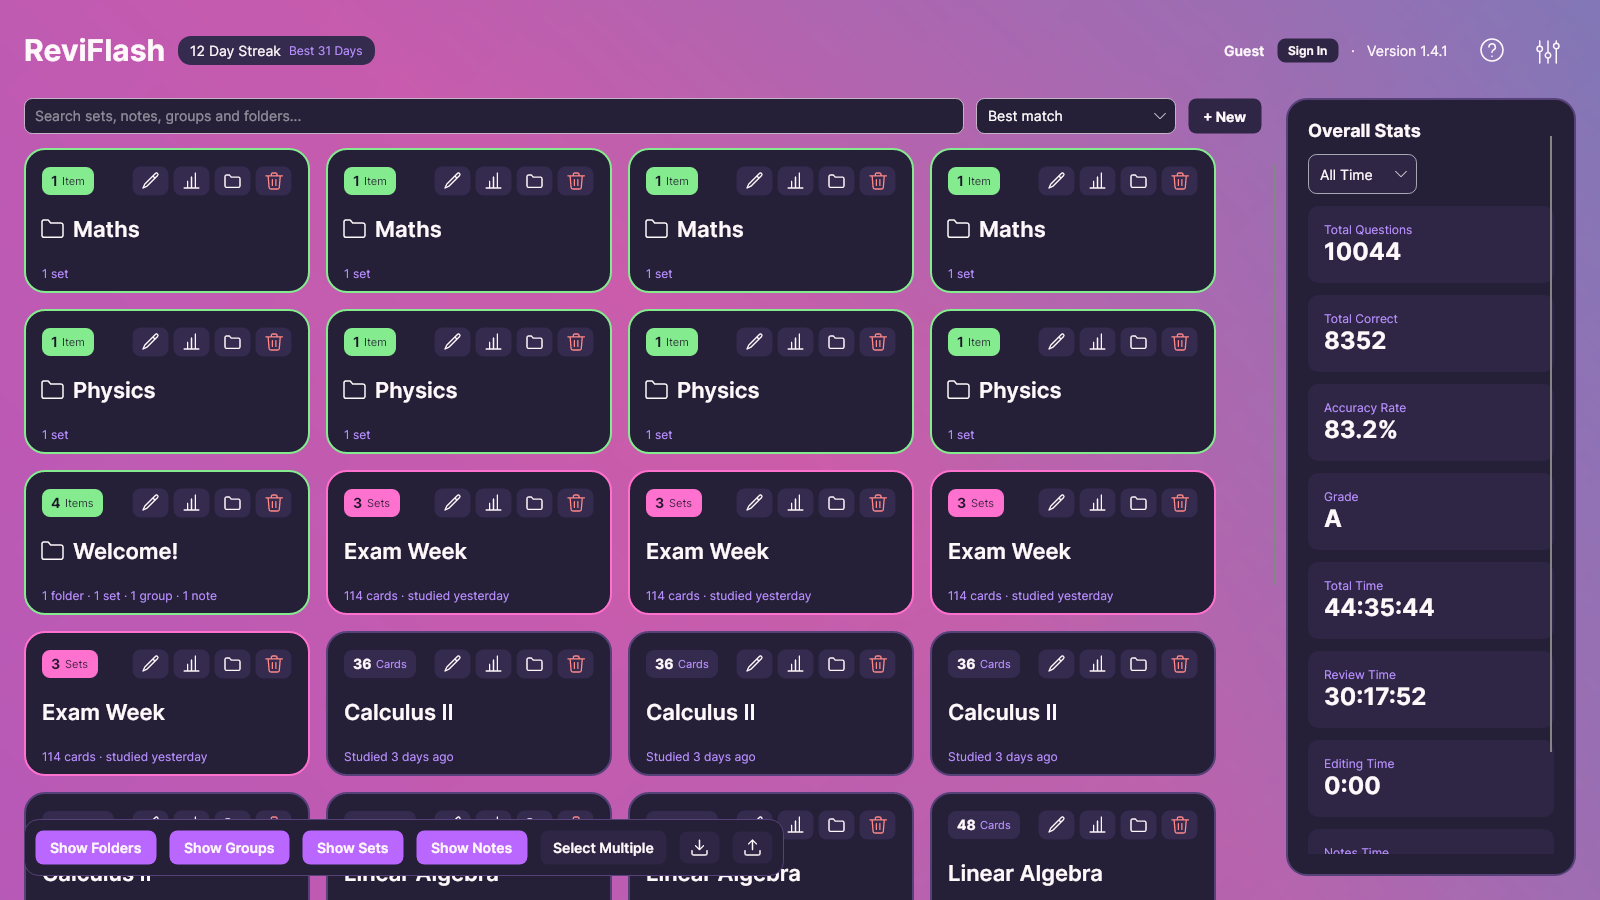
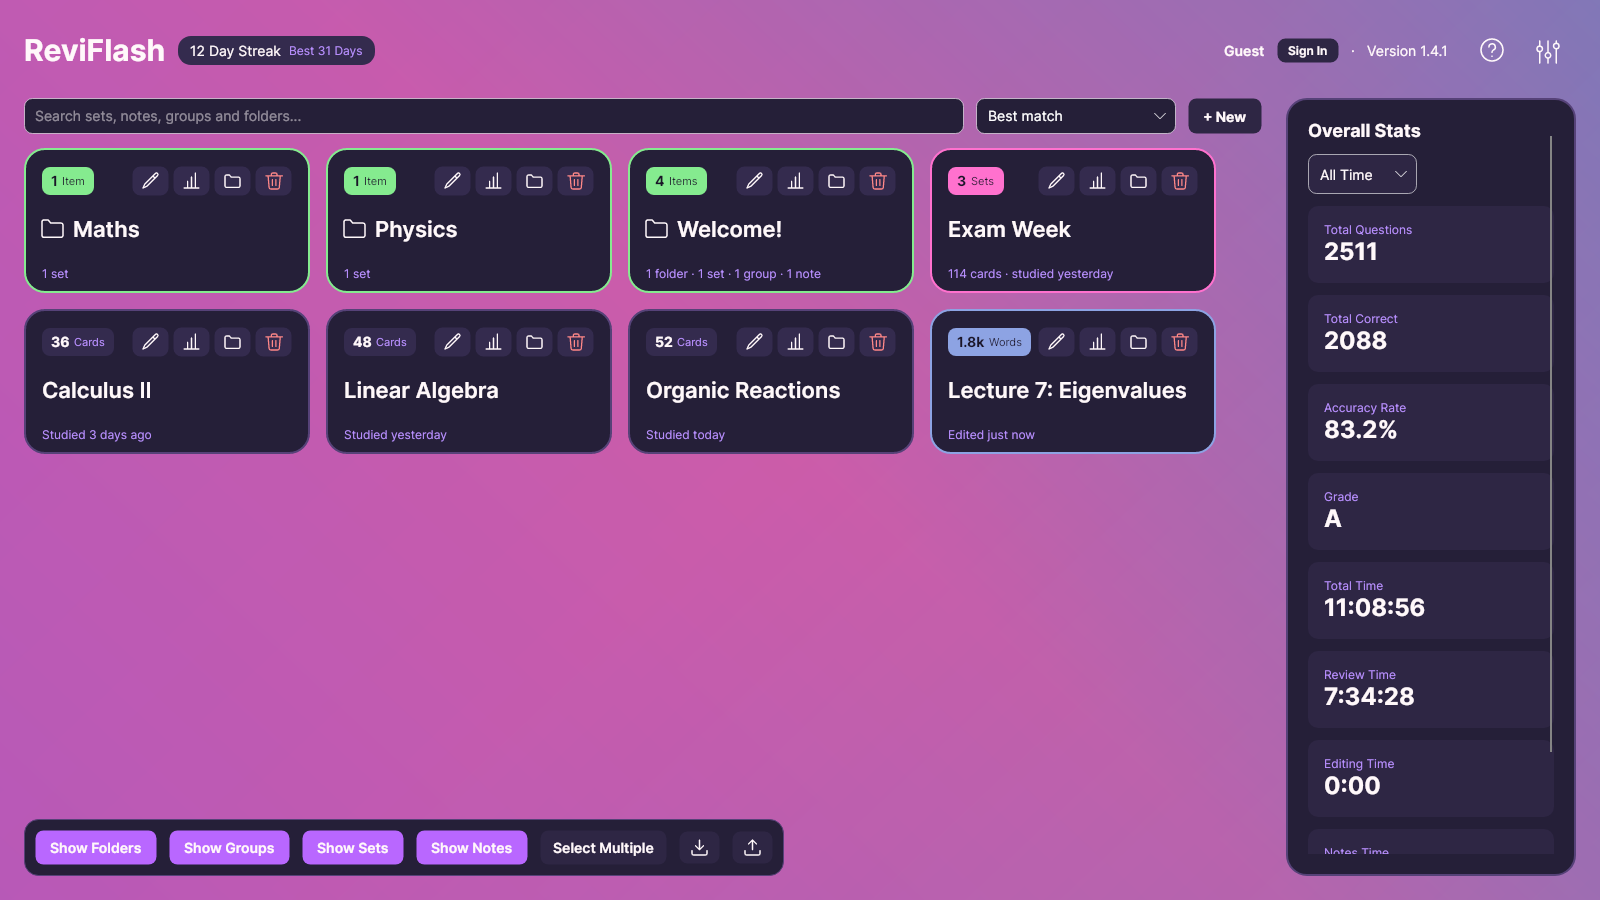
README: illustrated Features section and fixed screenshots
The main menu screenshot showed each item four times: the render script's demo library was
saved outside the folder it cleared, so every run added another copy. Screenshots are now
rendered into a fresh REVIFLASH_DATA_DIR folder. Adds set editor and image card shots.

diff --git a/README.md b/README.md
@@ -6,11 +6,7 @@ Maths renders properly, inline with your text: fractions, integrals, matrices an
 
 ![The ReviFlash main menu](docs/images/main-menu.png)
 
-| Maths that renders properly | Lecture notes next to your cards |
-| :---: | :---: |
-| ![A review card with aligned working](docs/images/review-maths.png) | ![A lecture note with a contents panel](docs/images/lecture-notes.png) |
-| **Stats for every set, folder and note** | **Themes, or make your own** |
-| ![Charts of answers and study time](docs/images/stats.png) | ![The Themes window](docs/images/themes.png) |
+[See everything ReviFlash can do ↓](#features)
 
 **Coming from Anki?** Import your `.apkg` decks straight in. Formatting, MathJax and `[latex]` maths, images, cloze deletions, type-in answers and reversed cards all come across, and sub-decks become folders.
 
@@ -72,19 +68,65 @@ A clean-up release: everything looks and works the same way in every window, and
 - Images and display maths no longer get extra blank lines around them.
 - Over 20 more fixes, from stale Community results to deleted folders lingering in stats.
 
-## Key Features
+## Features
 
-- **Built for Exams**: No due cards or review backlog. Study any set, folder or study group whenever you like, see your grade for it, and use Retry Later to bring back the cards you got wrong.
-- **Maths That Renders Properly**: Inline `$...$` and display `$$...$$` LaTeX, including fractions, sums, integrals, matrices, `cases` and aligned working, in the editor previews, reviews and notes, with a built-in Formatting Guide.
-- **Lecture Notes**: Write notes with headings, LaTeX and images next to your flashcards, jump around them with a contents panel, and turn any part of them into a card.
-- **Card Types for STEM**: Flip (optionally asked both ways), Cloze, Type-to-Answer, Multiple Choice, Match, and True/False.
-- **Anki Import**: Bring in `.apkg` decks with their maths, images, clozes and sub-decks intact.
-- **Themes**: Pick from 18 built-in themes or make your own from three colours, with readable text guaranteed.
-- **Keyboard-Driven Reviews**: Answer, mark, skip and move on without touching the mouse.
-- **Folders & Study Groups**: Organise sets and notes into folders, and group sets from different topics into Study Groups to review them together.
-- **Share Sets and Notes Online**: Upload your sets and notes as public or private, then update, download or delete them from any device, protected by Row-Level Security. Browse and search other users' public sets and notes and download them straight into your library.
-- **Backups**: Create and restore full local backups of your library, notes, images and settings, with or without your stats.
-- **In-Depth Analytics**: Detailed statistics, a grade for each set, time spent on flashcards and notes, performance charts and a year-long study calendar, so you can see which topics need more work before the exam.
+### Maths that renders properly
+Write LaTeX between `$...$` in a line of text, or `$$...$$` on its own line: fractions, sums, integrals, limits, matrices, `cases` and aligned working all render, in the editor's live preview, in reviews and in notes. A built-in Formatting Guide lists everything you can use, with examples.
+
+![A review card showing aligned working](docs/images/review-maths.png)
+
+### Six card types, written by you
+- **Flip**: a question and an answer, optionally asked both ways round.
+- **Cloze**: hide parts of a sentence or formula. Each blank becomes its own question, blanks with the same number are hidden together, and you can choose to type the answer.
+- **Type to Answer**: type the answer and ReviFlash checks it, ignoring case and extra spaces.
+- **Multiple Choice**: one or more correct options.
+- **Match**: pair up items from two columns.
+- **True/False**: with your own labels if you like, such as "Closed" and "Not closed".
+
+The set editor has a formatting toolbar (bold, italic, underline, code, headings, bullet points, maths and images) and a live preview under every field. Move or copy cards between sets, or start a new card from an existing one.
+
+![The set editor with a live maths preview](docs/images/set-editor.png)
+
+### Images in cards and notes
+Paste an image with Ctrl+V, drag one in, or use the Image button. Size it with a percentage of the width, and hide one inside a cloze blank until the answer is shown. Images are kept in your backups, and come across when you import from Anki.
+
+![A card with an image](docs/images/review-image.png)
+
+### Lecture notes next to your cards
+Write notes with headings, maths and images. A contents panel lets you jump around long notes, and Ctrl+Enter turns what you're writing into a card in any set. ReviFlash tracks your time spent on notes alongside your reviews.
+
+![A lecture note with its contents panel](docs/images/lecture-notes.png)
+
+### Study your way
+- There are no due cards and no backlog: study any set, folder or study group whenever you like.
+- Put sets from different topics into a **study group**, or pick several with **Select Multiple**, to review them together.
+- Use **Retry Later** to bring back the cards you got wrong, and finish with a grade for the session.
+- Organise everything into folders, and search your whole library from the main menu.
+- New installs start with a **Welcome!** folder: a tour of every card type and a Read Me on how to use the app.
+
+### Stats for everything
+Every set, group, folder and note has its own stats: questions answered, accuracy, a grade, and time spent reviewing, editing and reading notes. Graph View shows how they change over time, with a year-long study calendar and a breakdown of where your time went.
+
+![Charts of answers and study time](docs/images/stats.png)
+
+### Share and sync online (optional)
+With a free account you can:
+- Upload sets and notes as **public** or **private**, then update, download or delete them from any device. Private uploads are an easy way to move your work between computers.
+- Browse and search **Community** for other people's public sets and notes, and download them straight into your library, folders and all.
+
+Everything is protected by Row-Level Security, and nothing is uploaded unless you upload it. Sets and notes with images can't be uploaded yet.
+
+### Anki import and backups
+- **Anki import**: bring in `.apkg` decks with their formatting, MathJax and `[latex]` maths, images, clozes, type-in answers and reversed cards. Sub-decks become folders.
+- **Backups**: create and restore a full backup of your library, notes, images, settings and themes, with or without your stats.
+
+### Themes, or make your own
+Choose from 18 built-in themes, or make up to 12 of your own from a background and two accents. ReviFlash works out the rest and keeps text readable, and you can change any single colour if you want. An optional animated background swirl follows your theme.
+
+![The Themes window](docs/images/themes.png)
+
+### Keyboard-driven
+Answer, mark, skip and retry cards without touching the mouse. On the main menu, the arrow keys move between cards and single keys edit, move, show stats for or delete them. Press **F1** anywhere for the full list of shortcuts.
 
 ## Tech Stack
 
